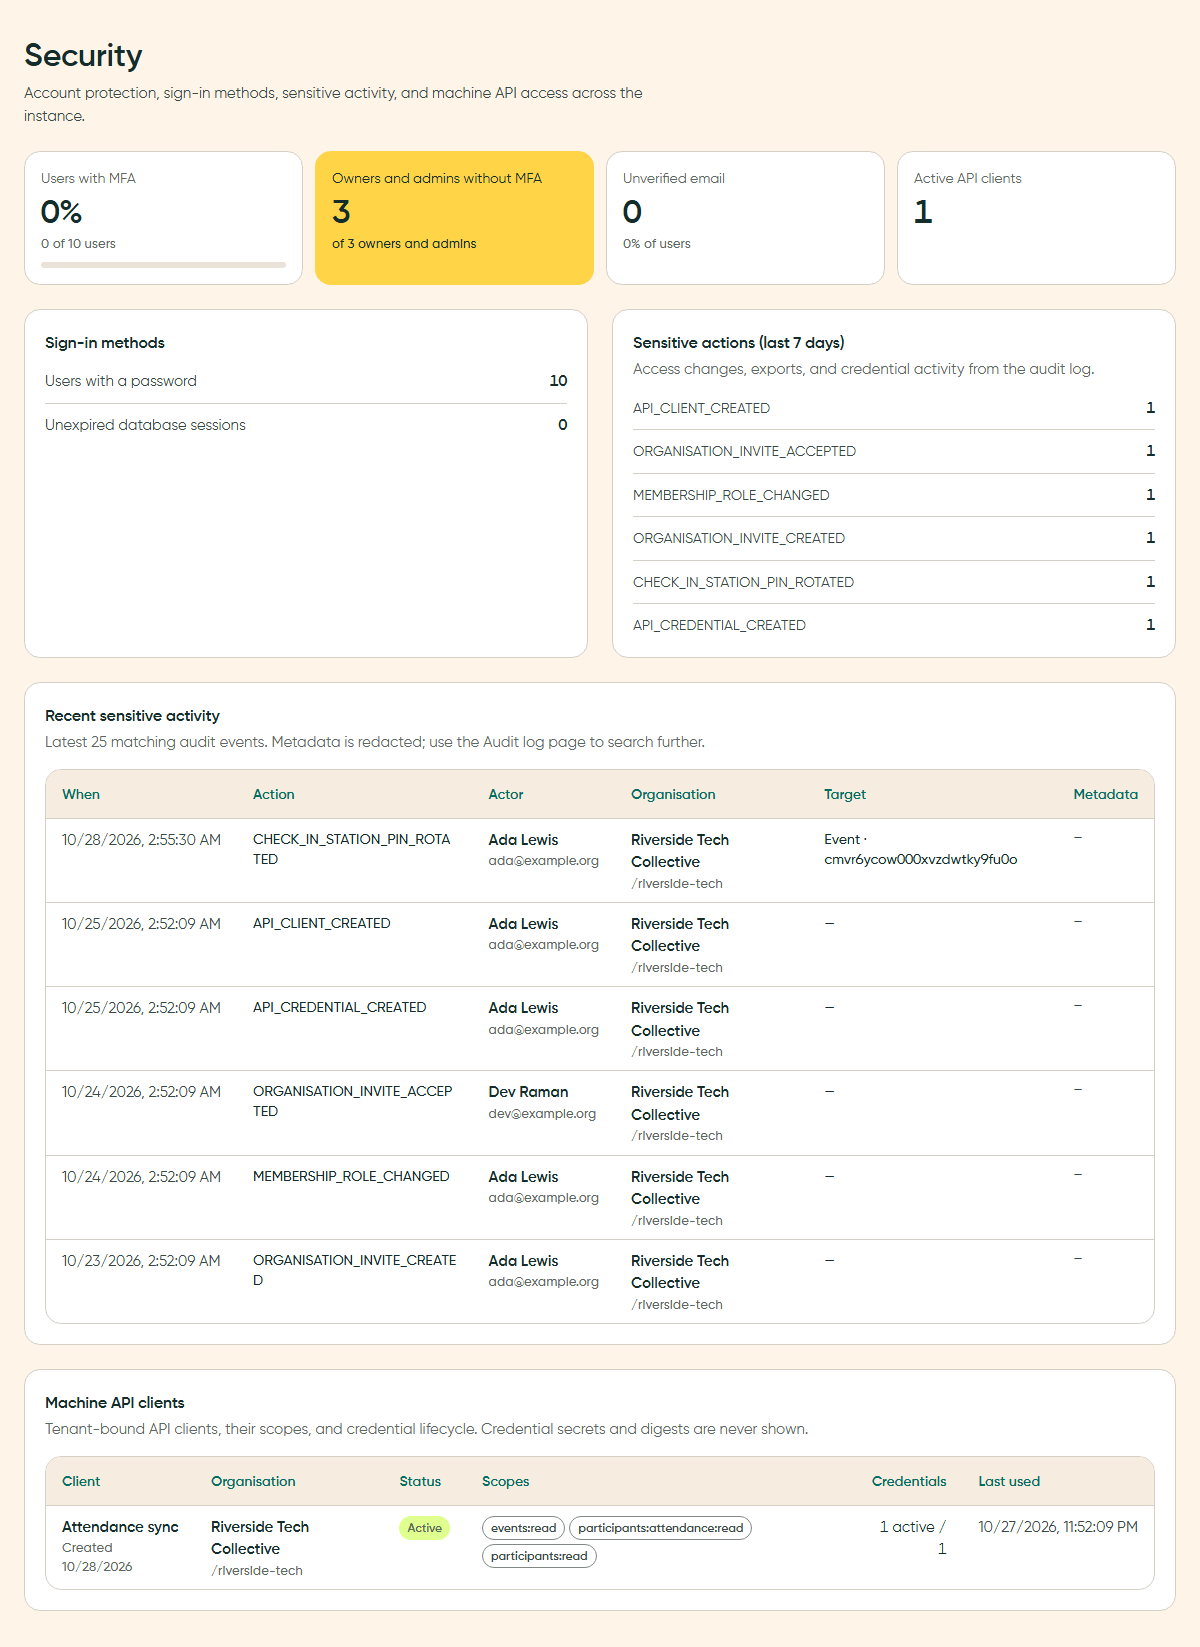
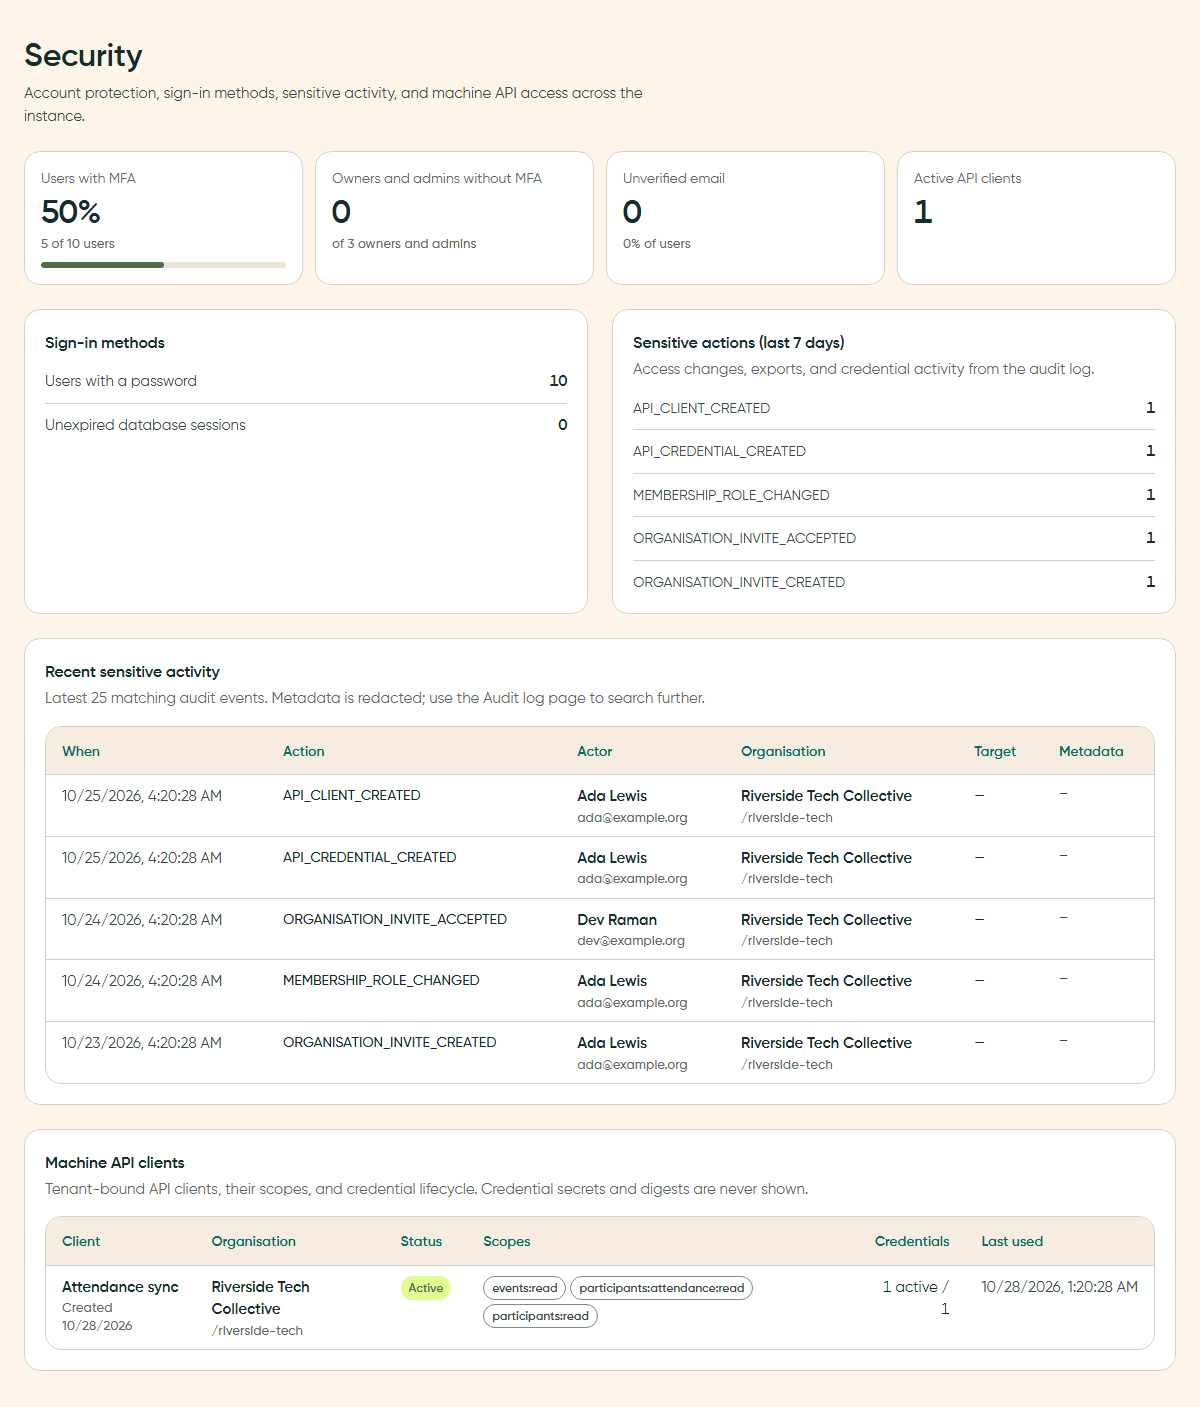
test(help): enrol demo staff authenticators before the Security screenshot
The capture signs staff in without codes (STAFF_MFA_REQUIRED=false), so
the super admin Security screen showed every owner and admin without
MFA. The capture now enrols the demo staff just before that screen and
re-captures the super admin pages.

Changed region(s): [[0.0, 0.0306, 0.9867, 0.978], [0.74, 0.0917, 0.8633, 0.1528], [0.4625, 0.2445, 0.4933, 0.2751]]

diff --git a/tests/help-screenshots/seed/mfa.ts b/tests/help-screenshots/seed/mfa.ts
@@ -1,0 +1,25 @@
+import "./serverOnly";
+import crypto from "node:crypto";
+import type { PrismaClient } from "@prisma/client";
+import { encryptMfaSecret } from "@/lib/mfa";
+import { assertDisposableDatabase } from "../guard";
+import { DAY } from "./common";
+
+/**
+ * Enrols an authenticator for every demo staff member (anyone with an
+ * organisation membership), as the app requires of real staff. The capture
+ * signs staff in with STAFF_MFA_REQUIRED=false and no codes, so this runs just
+ * before the super-admin Security screen, after every staff screen is taken.
+ * The secrets are random and never shown; the next run reseeds from scratch.
+ */
+export async function enrolDemoStaffAuthenticators(prisma: PrismaClient) {
+  assertDisposableDatabase();
+  const staff = await prisma.user.findMany({ where: { memberships: { some: {} }, mfaEnabledAt: null }, select: { id: true } });
+  const enrolledAt = new Date(Date.now() - 20 * DAY);
+  for (const { id } of staff) {
+    // A base32 TOTP secret, like the ones the app's own enrolment creates.
+    const secret = crypto.randomBytes(20).toString("hex").toUpperCase().replace(/[^A-Z2-7]/g, "A").slice(0, 32);
+    await prisma.user.update({ where: { id }, data: { mfaSecretEncrypted: encryptMfaSecret(secret), mfaEnabledAt: enrolledAt } });
+  }
+  return staff.length;
+}

diff --git a/tests/help-screenshots/capture/09-super-admin.spec.ts b/tests/help-screenshots/capture/09-super-admin.spec.ts
@@ -1,4 +1,6 @@
+import { PrismaClient } from "@prisma/client";
 import { test } from "@playwright/test";
+import { enrolDemoStaffAuthenticators } from "../seed/mfa";
 import { EMAILS } from "../seed/common";
 import { open, userPage } from "./browser";
 import { capture, card, heading } from "./shots";
@@ -14,6 +16,13 @@ test("super-admin pages", async ({ browser }) => {
   await capture(page, "super-admin-overview", page.locator("main"), { pad: 0, maxHeight: 1220 });
   await open(page, "/super-admin/operations");
   await capture(page, "super-admin-operations", page.locator("main"), { pad: 0, maxHeight: 1700 });
+  // Real staff must use an authenticator; enrol the demo staff before the MFA tiles.
+  const prisma = new PrismaClient();
+  try {
+    await enrolDemoStaffAuthenticators(prisma);
+  } finally {
+    await prisma.$disconnect();
+  }
   await open(page, "/super-admin/security");
   await capture(page, "super-admin-security", page.locator("main"), { pad: 0, maxHeight: 1700 });
   await open(page, "/super-admin/settings");
